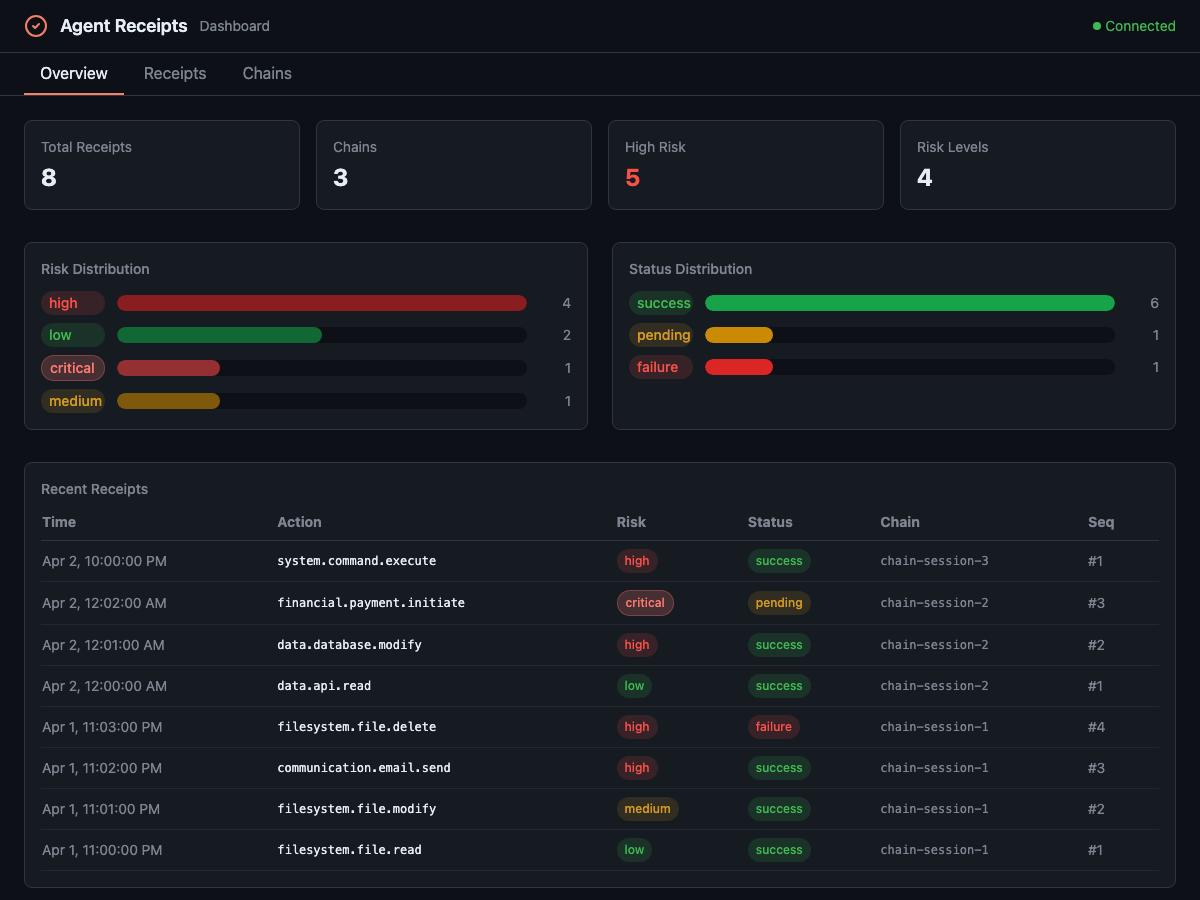
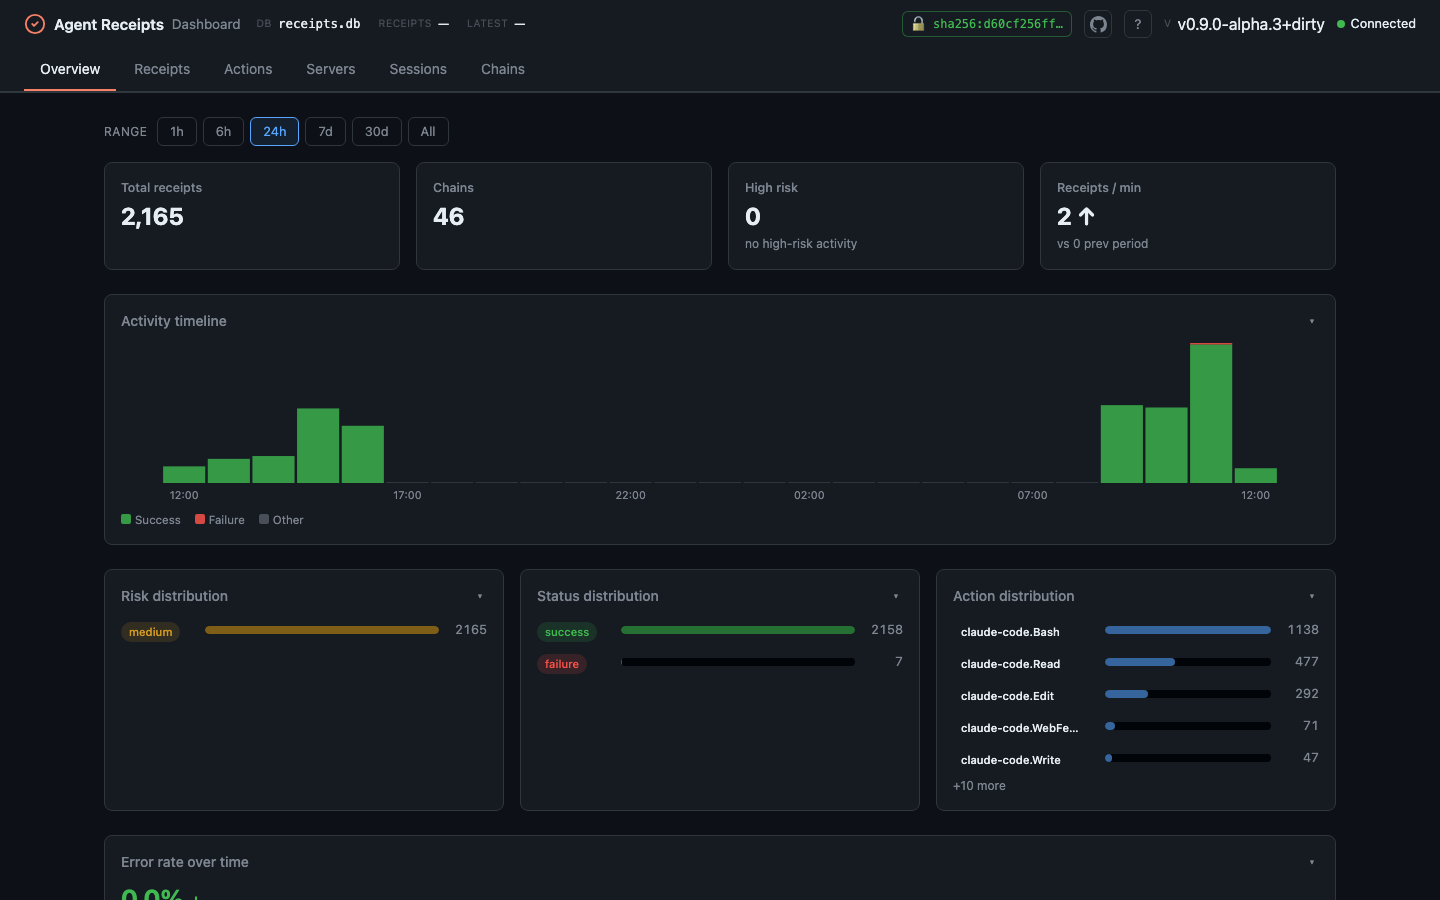
docs: refresh README screenshots to reflect current dashboard (#146)
* docs: refresh README screenshots to reflect current dashboard

Replace the stale 8-receipt overview screenshot with three current
screenshots captured from a live store with 29k+ receipts:

- docs/screenshot.png — Overview tab: activity timeline, risk/status/
  action distribution panels, Receipts/min throughput, 6-tab nav
- docs/session-attribution.png — Receipts tab with a 19-agent session
  filtered: orchestrator + sub-agent graph, delegation edges, receipt list
- docs/session-attribution-detail.png — receipt detail modal with
  HPKE-decrypted parameter disclosure (action type, issuer, principal,
  token usage, decrypted tool inputs)

Update README alt texts to match the new screenshots and move the detail
screenshot to the Forensic decryption section where it belongs.

* docs: rename session-attribution-detail.png → forensic-decryption-detail.png

diff --git a/README.md b/README.md
@@ -11,7 +11,7 @@ Lightweight local web UI for browsing [Agent Receipts](https://github.com/agent-
 
 </div>
 
-![Dashboard overview showing stats, risk distribution, and recent receipts](docs/screenshot.png)
+![Dashboard overview — activity timeline, risk and action distribution, and live receipt feed](docs/screenshot.png)
 
 ## What is this?
 
@@ -113,6 +113,8 @@ If your receipts carry HPKE-encrypted parameter disclosures (the daemon's parame
 
 Forensic key operations are **loopback-only** by design — see [Security model](#security-model).
 
+![Receipt detail showing HPKE-decrypted parameter disclosure — action type, issuer, principal, token usage, and decrypted tool inputs rendered inline](docs/forensic-decryption-detail.png)
+
 ## Insights & analytics
 
 The **Overview**, **Actions**, and **Servers** views turn a store into operational signal, scoped by a time-range picker (`1h · 6h · 24h · 7d · 30d · All`):
@@ -126,7 +128,7 @@ The **Overview**, **Actions**, and **Servers** views turn a store into operation
 
 When a session involves multiple agents, the dashboard builds a provable dependency graph from `action.target.resource` paths in the receipts (requires obsigna hook v0.19.0+).
 
-![Session graph showing orchestrator and two sub-agents with a state-dependency edge, risk rings, and blast-radius panel listing touched files and cross-agent state deps](docs/session-attribution.png)
+![Receipts tab with a session filter active — agent graph showing an orchestrator and sub-agents with delegation edges, filtered receipt list below](docs/session-attribution.png)
 
 **What you see:**
 
@@ -134,8 +136,6 @@ When a session involves multiple agents, the dashboard builds a provable depende
 - **State-dependency edges** (solid blue arrows) — two agents touched the same file; the arrow points from the agent that acted first to the one that acted after, making the causal order provable
 - **Risk rings** — orange (medium) or red (critical) outer rings on nodes with elevated-risk receipts
 - **Blast-radius panel** — click any node to see which files it touched, which other agents share a state dependency on those files, and a heuristic co-turn coupling count when agents operated on the same resource in overlapping time windows
-
-![Blast-radius panel detail showing file paths, directional state-dep arrows, and a semantic coupling warning](docs/session-attribution-detail.png)
 
 **Coverage fraction** — a `N / M receipts identity-indexed` indicator shows how complete the picture is. Receipts without a `target.resource` (Bash, MCP, spawn) are counted but cannot contribute to file-identity edges. A `⚠ mv ops` warning appears when move or rename operations are detected, because path strings may not reliably identify file versions across renames.
 
